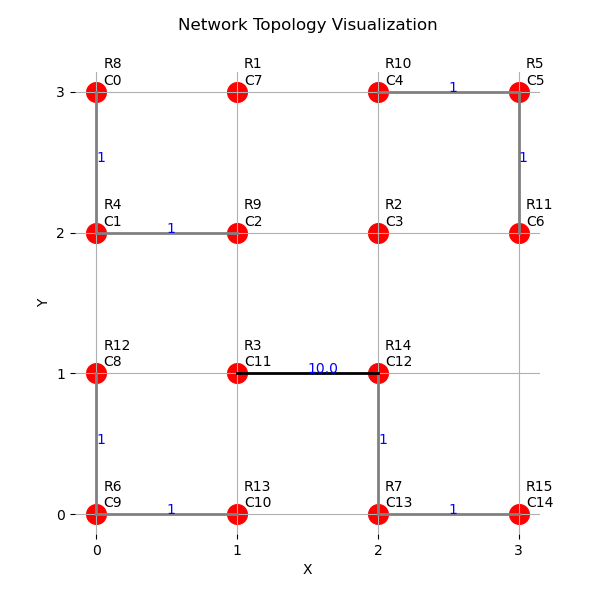
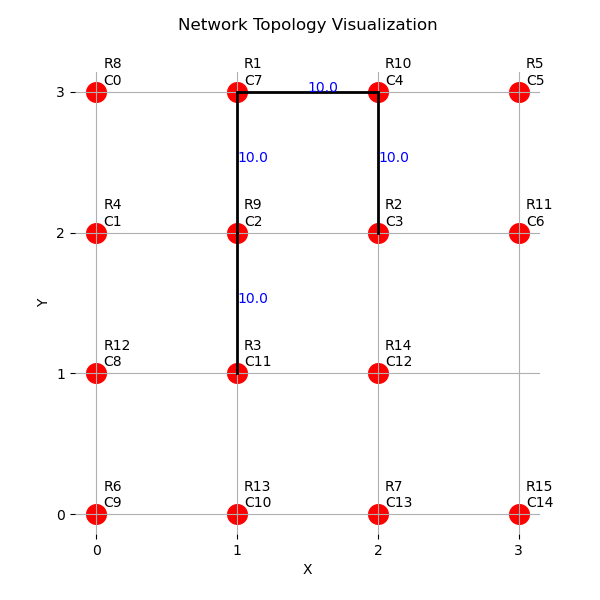
同層避免壅塞功能完成

Changed region(s): [[0.15, 0.12, 0.87, 0.63], [0.63, 0.63, 0.87, 0.87], [0.15, 0.63, 0.39, 0.87]]

diff --git a/interconnect.py b/interconnect.py
@@ -16,6 +16,10 @@ from visualize import visualize_network
 
 Edge = Tuple[int, int]
 
+STATUS_UNCONNECTED = 0
+STATUS_USE_XY = 1
+STATUS_USE_YX = 2
+
 def parent_child_pairs_by_level(num_nodes: int):
     """
     回傳格式：
@@ -56,7 +60,7 @@ def build_routes_dict_by_level(
 ) -> Dict[int, Dict[Tuple[int, int], dict]]:
     """
     回傳格式：
-    routes[level][(p,c)] = {
+    routes[level][(p, c)] = {
         "parent": p,
         "child": c,
         "src_router": placed[p].router_id,
@@ -91,6 +95,7 @@ def build_routes_dict_by_level(
                 "dst_router": c_node.router_id,
                 "XY": xy_router_path,
                 "YX": yx_router_path,
+                "status": STATUS_UNCONNECTED
             }
 
     return routes
@@ -250,6 +255,7 @@ def add_last_level_routes_to_network(
     use: str = "XY",
     undirected: bool = True,
 ) -> List[Edge]: # 加上回傳型別提示
+
     if not routes:
         return []
 
@@ -286,6 +292,7 @@ def add_unique_route_links_for_level(
     bandwidth: float = 1.0,
     seen_undirected: Optional[Set[Edge]] = None,
 ) -> List[Edge]:
+
     if level not in routes:
         return []
 
@@ -313,6 +320,208 @@ def add_unique_route_links_for_level(
         added_all.extend(added)
 
     return added_all
+
+def least_congestion_per_level(
+    routes: Dict[int, Dict[Tuple[int, int], dict]],
+    level: int,
+    net: "Network",
+    router_to_node: Dict[int, Node],
+    bandwidth: float = 10.0,
+    seen_undirected: Optional[Set[Edge]] = None,
+) -> List[Edge]:
+    """
+    針對同一層級 (Layer) 的所有連線配對，計算 XY 與 YX 路徑與「目前已選路徑」的重疊程度。
+    選擇重疊數較少的路徑，並將結果標記在 info['selected_type'] 與 info['selected_path']。
+    此函式會直接修改傳入的 routes_in_level 字典。
+    """
+    # 紀錄這一層目前為止被佔用的邊 (用 set 存無向邊 tuple 以加速比對)
+    occupied_edges: Set[Edge] = set()
+
+    added_all: List[Edge] = []
+
+    if level not in routes:
+        print(f"[DEBUG] 錯誤: routes 中找不到 level={level} 的資料")
+        return []
+
+    # Helper: 確保 edge 是 tuple 格式 (避免 list of lists 造成 set 失敗)
+    def to_edge_set(edge_list, tag=""):
+        try:
+            # 如果 edge_list 是空的
+            if not edge_list:
+                return set()
+            # 強制轉換每個元素為 tuple
+            s = set(tuple(e) for e in edge_list)
+            return s
+        except Exception as e:
+            print(f"[DEBUG] {tag} 資料格式轉換失敗: {e}, Data: {edge_list}")
+            return set()
+
+    # === Step 1: 優先處理無衝突路徑 (XY == YX) ===
+    print(f"--- Step 1: 優先處理無衝突路徑 (XY == YX) ---")
+
+    for (_p, _c), info in routes[level].items():
+        # [修正 1] Key 名稱改為 'XY' 和 'YX'
+        path_xy_nodes = info.get("XY", [])
+        path_yx_nodes = info.get("YX", [])
+
+        # 簡單檢查是否完全相同 (節點路徑相同，邊自然也相同)
+        if path_xy_nodes != path_yx_nodes:
+            continue
+
+        print(f"  [Match] 處理配對 Router {_p} -> {_c} (路徑相同)")
+
+        # [修正 2] 將「節點路徑」轉換為「邊的集合」
+        # 例如: [1, 9, 3] -> {(1, 9), (9, 3)}
+        edges = set()
+        if len(path_xy_nodes) > 1:
+            for i in range(len(path_xy_nodes) - 1):
+                u = path_xy_nodes[i]
+                v = path_xy_nodes[i + 1]
+                # 確保無向邊的一致性 (小 ID 在前，或者依靠 add_edges 處理)
+                # 這裡直接存 tuple 即可
+                edges.add((u, v))
+
+        print(f"    -> 節點路徑: {path_xy_nodes}")
+        print(f"    -> 轉換後候選邊: {edges}")
+
+        if not edges:
+            print(f"    -> [WARNING] 邊集合為空，跳過。")
+            continue
+
+        added = add_edges(
+            net,
+            edges,
+            router_to_node,
+            bandwidth=bandwidth,
+            seen=seen_undirected,
+            undirected=True,
+        )
+
+        if added:
+            print(f"    -> [SUCCESS] 成功加入新邊: {added}")
+            seen_undirected.update(added)
+        else:
+            print(f"    -> [INFO] 未加入任何邊 (可能已存在)")
+
+        occupied_edges.update(edges)
+        info["status"] = STATUS_USE_XY
+        added_all.extend(added)
+
+        # === Step 2: 計算重疊數, 決定剩下的 ===
+        print(f"--- Step 2: 處理衝突路徑 (計算重疊) ---")
+
+        # Helper: 將節點列表轉為邊集合
+        def nodes_to_edges_set(node_list):
+            s = set()
+            if node_list and len(node_list) > 1:
+                for i in range(len(node_list) - 1):
+                    # 確保轉為 tuple 以便放入 set
+                    s.add((node_list[i], node_list[i + 1]))
+            return s
+
+        for (_p, _c), info in routes[level].items():
+            # 跳過已經處理過的 (Step 1 處理過的)
+            if info.get("status") != STATUS_UNCONNECTED:
+                continue
+
+            print(f"  [Conflict Check] 處理配對 Router {_p} -> {_c}")
+
+            # [修正] 取得路徑資料 (統一變數名稱)
+            path_xy_nodes = info.get("XY", [])
+            path_yx_nodes = info.get("YX", [])
+
+            # [修正] 轉換為邊
+            edges_xy = nodes_to_edges_set(path_xy_nodes)
+            edges_yx = nodes_to_edges_set(path_yx_nodes)
+
+            # 計算重疊數 (Cost)
+            cost_xy = len(edges_xy.intersection(occupied_edges))
+            cost_yx = len(edges_yx.intersection(occupied_edges))
+
+            print(f"    -> Cost XY: {cost_xy} | Cost YX: {cost_yx}")
+            # print(f"       (XY邊: {edges_xy})")
+            # print(f"       (YX邊: {edges_yx})")
+
+            # 決策變數初始化
+            selected_edges = set()
+            selected_status = ""
+
+            # 決策：選 cost 小的，平手預設選 XY
+            if cost_xy <= cost_yx:
+                selected_edges = edges_xy
+                selected_status = STATUS_USE_XY
+                print(f"    -> 決定: 選 XY (重疊較少或相等)")
+            else:
+                selected_edges = edges_yx
+                selected_status = STATUS_USE_YX
+                print(f"    -> 決定: 選 YX (重疊較少)")
+
+            # 執行更新
+            added = add_edges(
+                net,
+                selected_edges,
+                router_to_node,
+                bandwidth=bandwidth,
+                seen=seen_undirected,
+                undirected=True,
+            )
+
+            if added:
+                print(f"    -> [SUCCESS] 成功加入新邊: {added}")
+                # 更新全域 seen，避免後續重複加入
+                seen_undirected.update(added)
+            else:
+                print(f"    -> [INFO] 未加入任何邊 (可能已存在於 seen)")
+
+            info["status"] = selected_status
+            added_all.extend(added)
+
+            # 更新本層的佔用紀錄
+            occupied_edges.update(selected_edges)
+
+    return added_all
+
+
+def print_result(placed, routes, edge_routes, node_layer_func):
+    """
+    列印 Placement, Router Path 以及 Router Edge 的結果。
+
+    Args:
+        placed (dict): 包含節點位置資訊的字典 (需包含 .x, .y, .router_id)
+        routes (dict): 包含路徑資訊的字典
+        edge_routes (dict): 包含邊緣路徑資訊的字典
+        node_layer_func (function): 輸入 nid 回傳 layer 的函式
+    """
+
+    # --- 1. Placement Result ---
+    print("\n\n")
+    print("=== Placement Result (1 ~ n layers, leaf included) ===\n")
+    for nid in sorted(placed.keys()):
+        n = placed[nid]
+        # 使用傳入的 node_layer_func 取得層級
+        layer = node_layer_func(nid)
+        print(f"node{nid:>3}  layer={layer}  at ({n.x},{n.y})  router_id={n.router_id}")
+
+    # --- 2. Router Path Result ---
+    print("\n\n")
+    print("=== Router Path Result (1 ~ n layers, leaf included) ===")
+
+    for level in sorted(routes.keys()):
+        print(f"\nlevel {level} -> {level + 1}")
+        for (p, c), rec in routes[level].items():
+            print(f"({p},{c})  XY={rec['XY']}  YX={rec['YX']}  status={rec['status']}")
+
+    # --- 3. Router Edge Result ---
+    print("\n\n")  # 補上換行讓格式與上面一致
+    print("=== Router Edge Result (1 ~ n layers, leaf included) ===")
+
+    for level in sorted(edge_routes.keys()):
+        print(f"\nlevel {level} -> {level + 1}")
+        for (p, c), info in edge_routes[level].items():
+            # 注意: 這裡原程式碼為 rec['status']，已修正為 info['status']
+            status = info.get('status', 'N/A')
+            print(f"({p},{c})  XY edges: {info['XY_edges']}  YX edges: {info['YX_edges']}  status={status}")
+
 
 
 
@@ -351,6 +560,8 @@ def main():
     connected: Set[Edge] = set()
 
     # 加最後一層（灰色由 add_last_level_routes_to_network 內部決定/傳入）
+
+    """
     last_edges = add_last_level_routes_to_network(
         network=network,
         routes=routes,
@@ -362,6 +573,8 @@ def main():
     connected.update(last_edges)
     seen_undirected.update(last_edges)
     print(f"加入leaf層: {seen_undirected}")
+    """
+
 
     # 加入唯一路徑
     """
@@ -396,7 +609,7 @@ def main():
         print(f"  -> Level {level} 新增了 {len(added_edges)} 條邊")
     """
     # 加入缺失的邊(單層測試)
-    
+    """
     test_level = 2
     added_edges = add_missing_edge(
             net=network,
@@ -408,32 +621,24 @@ def main():
     connected.update(added_edges)
     seen_undirected.update(added_edges)
     print(f"加入缺失的邊: {seen_undirected}")
-
-    
+    """
 
     # 列印結果
-    print("\n\n")
-    print("=== Placement Result (1 ~ n layers, leaf included) ===\n")
-    for nid in sorted(placed.keys()):
-        n = placed[nid]
-        print(f"node{nid:>3}  layer={node_layer(nid)}  at ({n.x},{n.y})  router_id={n.router_id}")
+    # print_result(placed, routes, edge_routes, node_layer)
 
-    
-    print("\n\n")
-    print("=== Router Path Result (1 ~ n layers, leaf included) ===")
+    print(routes[1])
+    # 測試單層避免擁塞
+    result_edges = least_congestion_per_level(
+            routes=routes,
+            level=1,
+            net=network,
+            router_to_node=router_to_node,
+            seen_undirected=seen_undirected
+        )
+    connected.update(result_edges)
+    seen_undirected.update(result_edges)
+    print(f"加入邊: {seen_undirected}")
 
-    for level in sorted(routes.keys()):
-        print(f"\nlevel {level} -> {level+1}")
-        for (p, c), rec in routes[level].items():
-            print(f"({p},{c})  XY={rec['XY']}  YX={rec['YX']}")
-
-    print("=== Router Edge Result (1 ~ n layers, leaf included) ===")
-
-    for level in sorted(edge_routes.keys()):
-        print(f"\nlevel {level} -> {level+1}")
-        for (p, c), info in edge_routes[level].items():
-            print(f"({p},{c})  XY edges: {info['XY_edges']}  YX edges: {info['YX_edges']}")
-            
             
 
     visualize_network(network)
